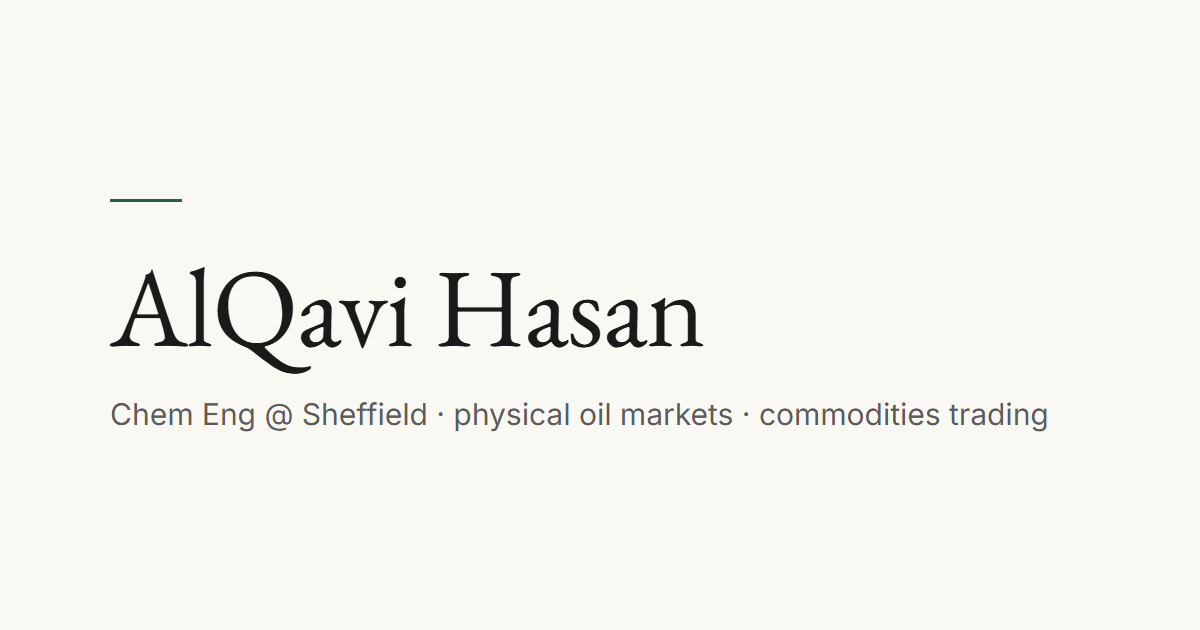
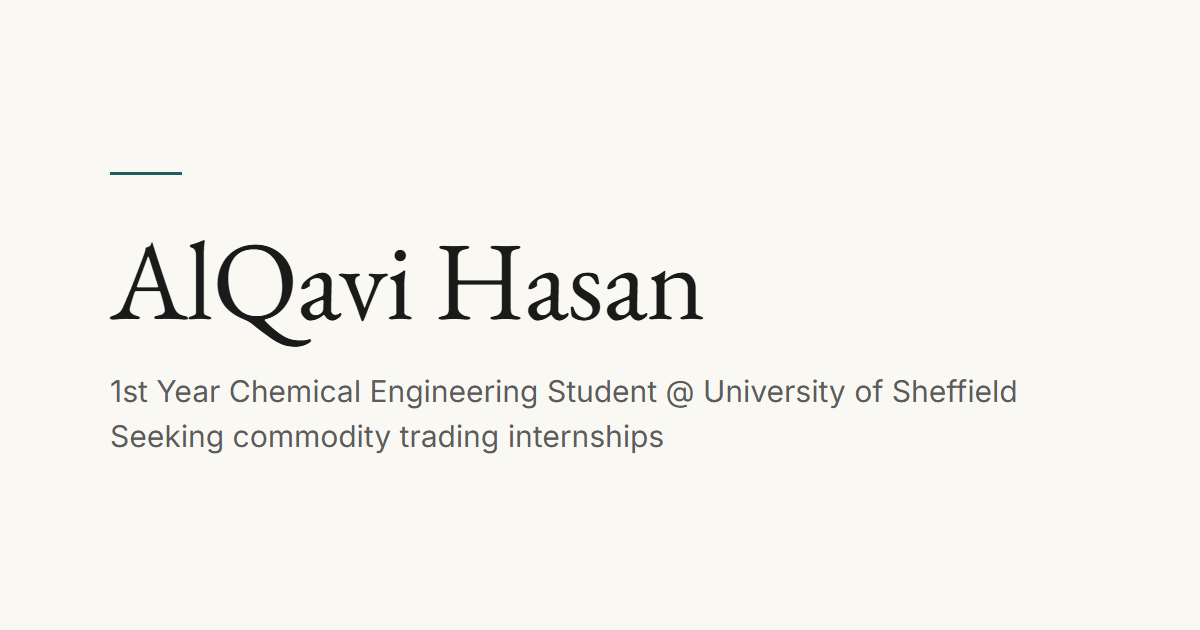
chore: update meta description and OG image to new tagline

Changed region(s): [[0.0925, 0.3619, 0.8942, 0.7238], [0.37, 0.3921, 0.5858, 0.573], [0.0925, 0.2714, 0.1542, 0.3317]]

diff --git a/app/layout.tsx b/app/layout.tsx
@@ -1,7 +1,7 @@
 import type { Metadata, Viewport } from "next";
 
 const TAGLINE =
-  "Chem Eng @ Sheffield · physical oil markets · seeking commodities trading internships";
+  "1st Year Chemical Engineering Student @ University of Sheffield · seeking commodity trading internships";
 
 export const metadata: Metadata = {
   metadataBase: new URL("https://alqavi.xyz"),
